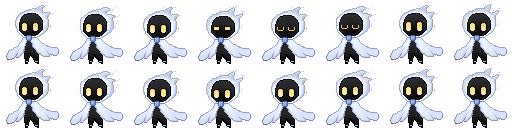
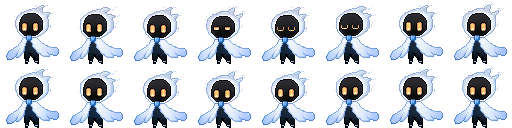
새 대기와 달리기 이미지 반영 및 Pillow 흑백 달리기 연결

diff --git a/tests/test_character_assets.py b/tests/test_character_assets.py
@@ -1,0 +1,50 @@
+import unittest
+from unittest.mock import Mock, patch
+
+from PIL import Image, ImageOps
+
+from code.player import Player
+from code.settings import IMAGE_ROOT
+
+
+class CharacterAssetTests(unittest.TestCase):
+    def setUp(self):
+        def load(path):
+            with Image.open(path) as image:
+                return Mock(w=image.width, h=image.height)
+        with patch("pico2d.load_image", side_effect=load):
+            self.player = Player()
+
+    def test_updated_sheets_use_all_frames_in_both_color_states(self):
+        for has_blue in (True, False):
+            self.player.has_blue = has_blue
+            for state, count in (("idle", 16), ("run", 10)):
+                with self.subTest(has_blue=has_blue, state=state):
+                    self.player.state, self.player.frame = state, count - 1
+                    self.player.draw(0)
+                    image = self.player.current_images[state]
+                    args = image.clip_composite_draw.call_args.args
+                    self.assertEqual(args[:4], (448, 0, 64, 64) if state == "idle"
+                                     else (576, 0, 64, 64))
+                    self.player._animate(1 / self.player.ANIMATION_FPS[state],
+                                         1 if state == "run" else 0)
+                    self.assertAlmostEqual(self.player.frame, 0)
+
+    def test_run_faces_movement_direction_with_and_without_blue(self):
+        for has_blue in (True, False):
+            self.player.has_blue = has_blue
+            self.player.state = "run"
+            for facing, flip in ((1, ""), (-1, "h")):
+                self.player.facing = facing
+                self.player.draw(0)
+                self.assertEqual(self.player.current_images["run"].clip_composite_draw.call_args.args[5], flip)
+
+    def test_gray_run_matches_new_blue_sheet_and_preserves_alpha(self):
+        with Image.open(IMAGE_ROOT / "character/run/run_blue.png") as source, \
+             Image.open(IMAGE_ROOT / "background/grayscale/character/run.png") as gray:
+            source = source.convert("RGBA")
+            self.assertEqual(gray.size, (640, 64))
+            self.assertEqual(gray.getchannel("A").tobytes(), source.getchannel("A").tobytes())
+            luminance = ImageOps.grayscale(source).tobytes()
+            for channel in ("R", "G", "B"):
+                self.assertEqual(gray.getchannel(channel).tobytes(), luminance)
